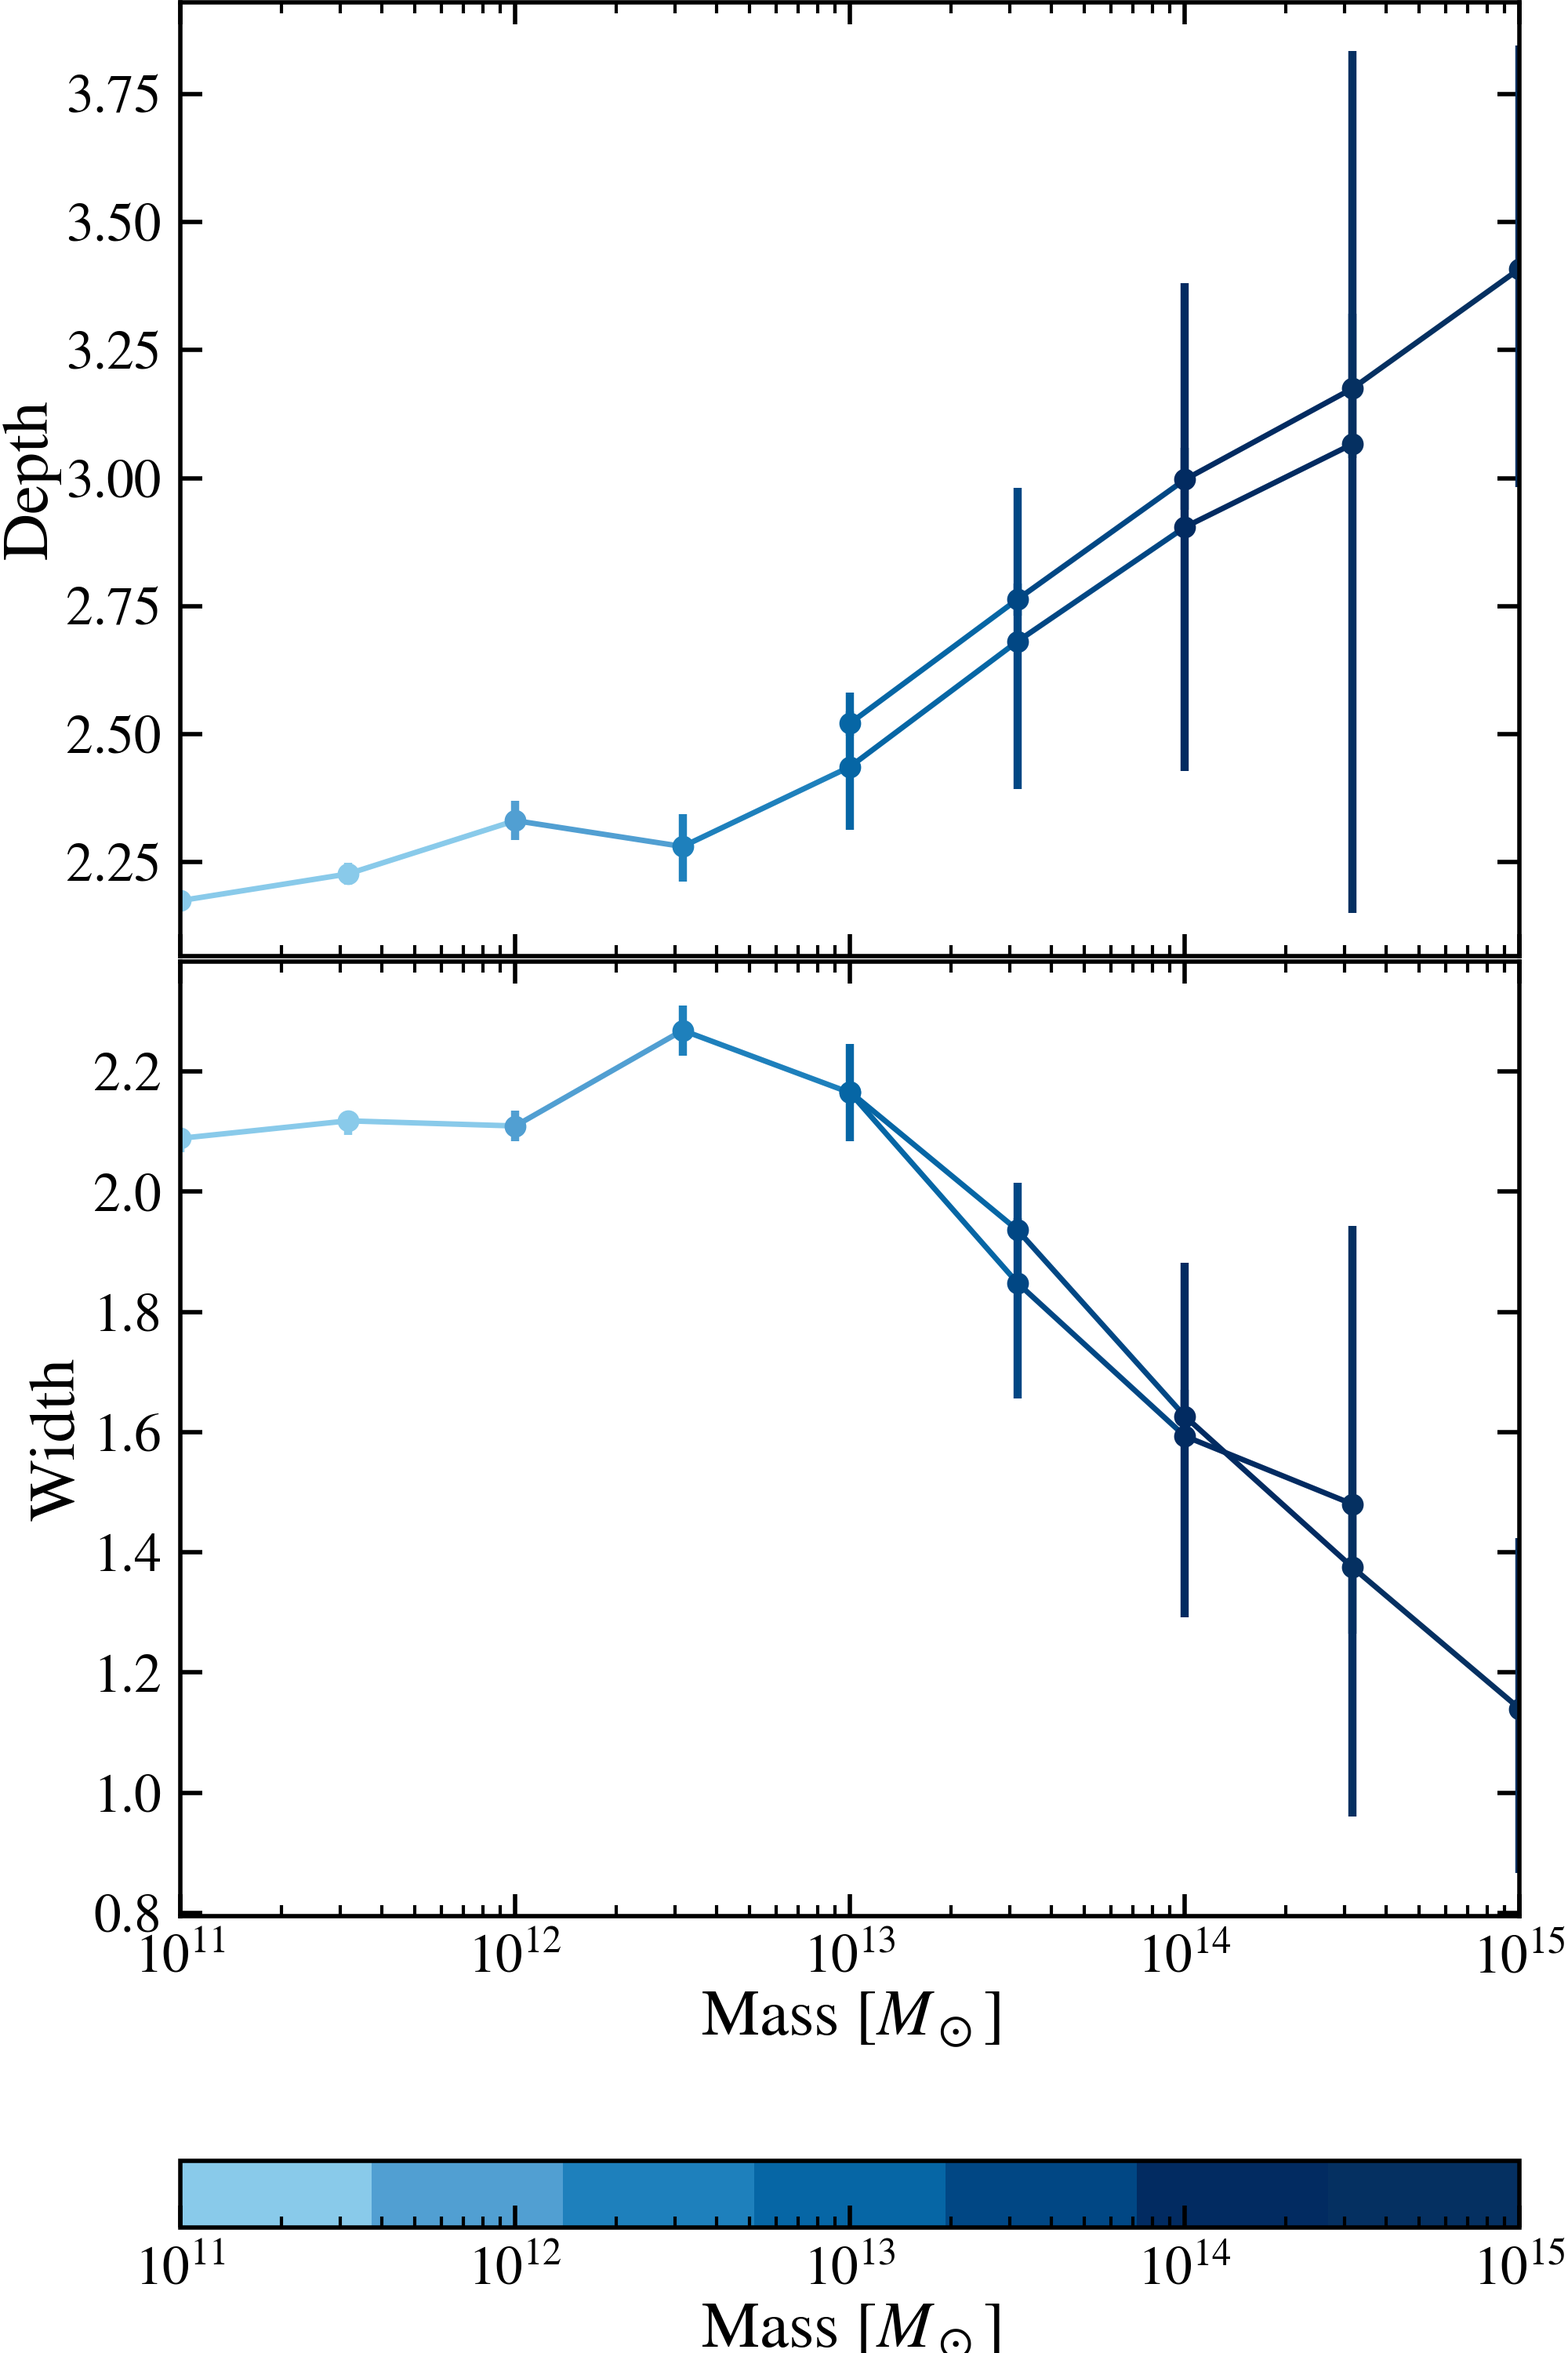
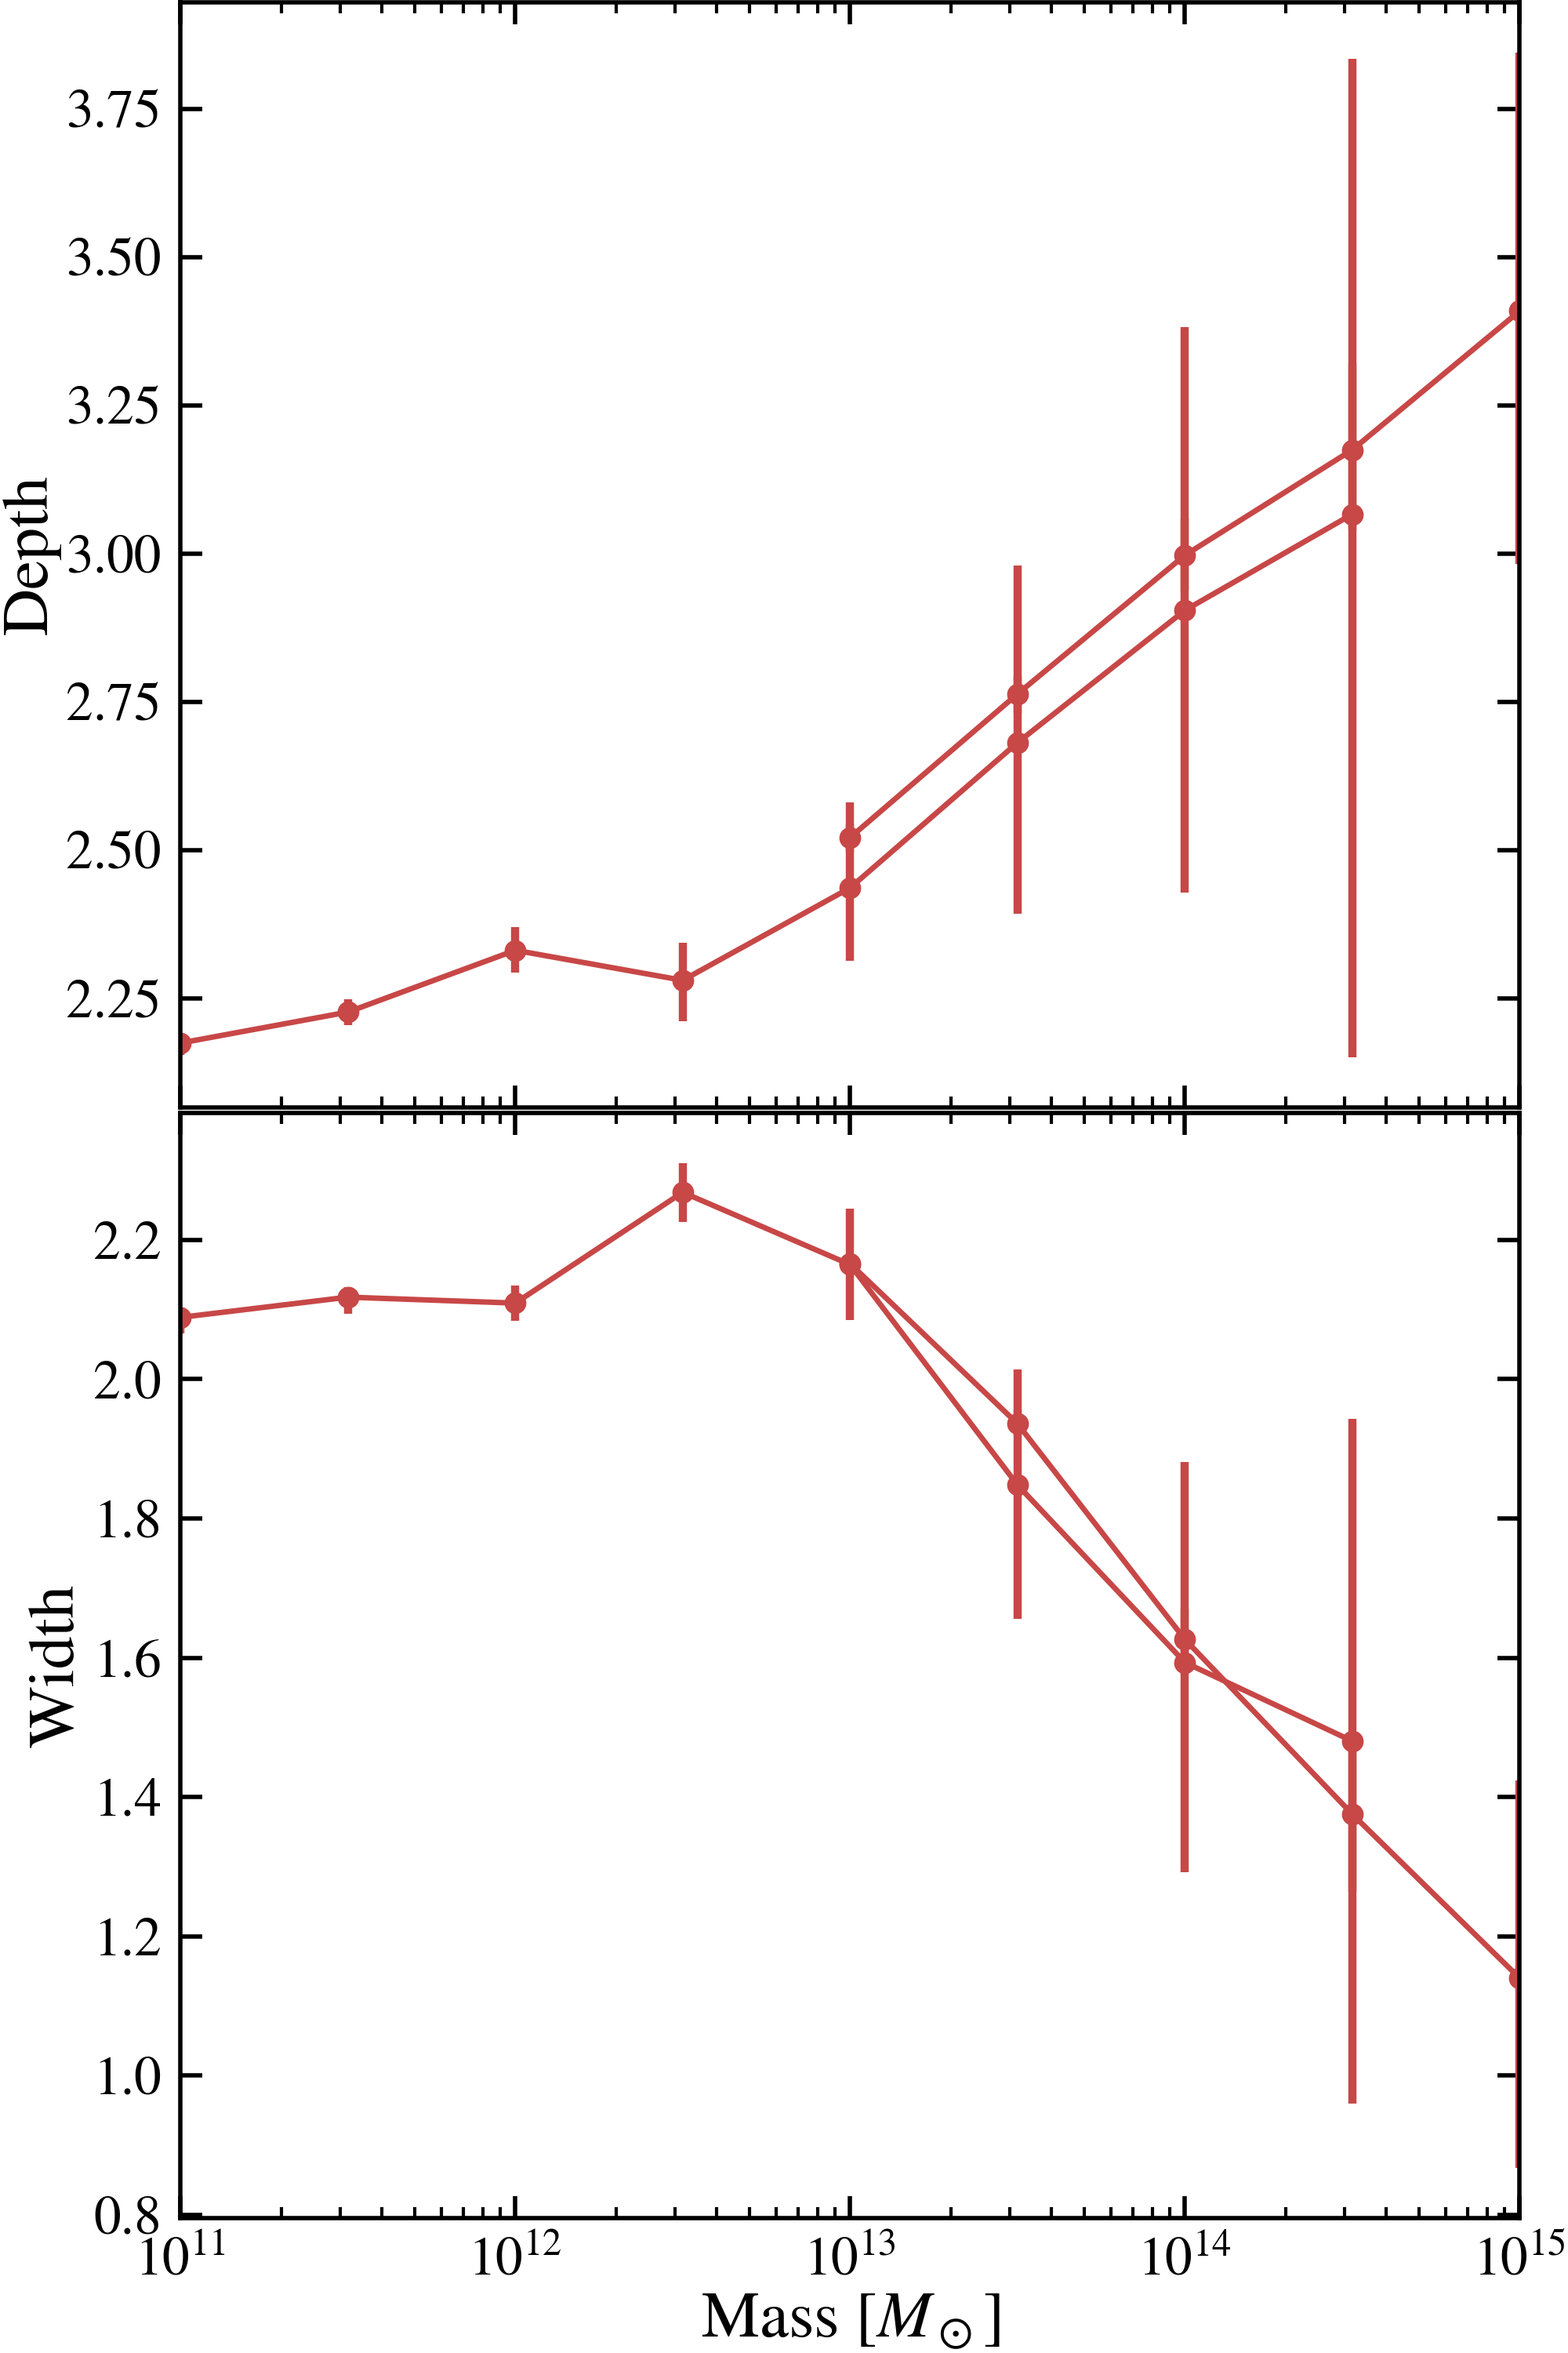
new

diff --git a/code/paper_plot/fig2.py b/code/paper_plot/fig2.py
@@ -1,5 +1,5 @@
 """"This script plots depth (top panel) and width (bottom panel) as a function of mass at z = 0.
-    Hydro simulation only."""
+    Hydro-simulations only."""
 
 import os
 import numpy as np
@@ -12,7 +12,37 @@ print('')
 print('>>> Plot Depth and width vs mass at z = 0 <<<')
 print('')
 
+# ============================================================================================
+# Load data
+# ============================================================================================
+
 root_dir = 'result/bootstrap_stats_phys/'
+
+# Load TNG300
+TNG300_dir = f'{root_dir}/TNG300/sim_205_1250_Hydro/Nboots_1024/'
+TNG300_snaps = 99
+TNG300_data = np.load(f'{TNG300_dir}/snap_{TNG300_snaps}_Rsp_stats.npy', allow_pickle=True).item()
+
+TNG300_z             = np.round(TNG300_data['z'], 3)
+TNG300_mass_bins     = TNG300_data['mass_bins']
+TNG300_final_results = TNG300_data['final_results']
+
+# Load MTNG
+MTNG_dir = f'{root_dir}/MTNG/Hydro-Arepo/MTNG-L500-4320-A/Nboots_1024/'
+MTNG_snaps = 264
+MTNG_data = np.load(f'{MTNG_dir}//snap_{MTNG_snaps}_Rsp_stats.npy', allow_pickle=True).item()
+
+MTNG_z             = np.round(MTNG_data['z'], 3)
+MTNG_mass_bins     = MTNG_data['mass_bins']
+MTNG_final_results = MTNG_data['final_results']
+
+print(TNG300_z, MTNG_z)
+
+min_mass = min(min(TNG300_mass_bins), min(MTNG_mass_bins))
+max_mass = max(max(TNG300_mass_bins), max(MTNG_mass_bins))
+print(min_mass, max_mass)
+num_mass_bins = int((max_mass - min_mass) / 0.5)
+print(num_mass_bins)
 
 # ============================================================================================
 # Set up the plot
@@ -21,95 +51,73 @@ root_dir = 'result/bootstrap_stats_phys/'
 fig, axs = plt.subplots(2, 1, figsize=(4, 6), dpi=500, sharex=True)
 
 # ============================================================================================
-# Set up the colorbar
+# Plot Depth
 # ============================================================================================
 
-def load_z(dir, snaps):
-    data = np.load(dir+f'/snap_{min(snaps)}_Rsp_stats.npy', allow_pickle=True).item()
-    z_i = np.round(data['z'], 2)
-    data = np.load(dir+f'/snap_{max(snaps)}_Rsp_stats.npy', allow_pickle=True).item()
-    z_f = np.round(data['z'], 2)
-    return z_i, z_f
-
-TNG300_snaps = [99, 78, 67, 50, 40, 33, 25, 21, 17, 13, 8]
-TNG300_dir = f'{root_dir}/TNG300/sim_205_1250_Hydro/Nboots_1024/'
-TNG300_z_i, TNG300_z_f = load_z(TNG300_dir, TNG300_snaps)
-
-MTNG_snaps = [264, 237, 214, 179, 151, 129]
-MTNG_dir = f'{root_dir}/MTNG/Hydro-Arepo/MTNG-L500-4320-A/Nboots_1024/'
-MTNG_z_i, MTNG_z_f = load_z(MTNG_dir, MTNG_snaps)
-
-z_i, z_f = max(TNG300_z_i, MTNG_z_i), min(TNG300_z_f, MTNG_z_f)
-print(z_i, z_f)
-
-# Set up the colorbar
-cmap = plt.get_cmap('viridis', len(TNG300_snaps))
-bound = np.linspace(z_f, z_i, len(TNG300_snaps))
-norm = BoundaryNorm(bound, cmap.N)
-cb = fig.colorbar(cm.ScalarMappable(norm=norm, cmap=cmap),
-                  ax=axs, orientation='horizontal', spacing='proportional', ticks=bound)
-cb.set_label('z')
-
-# ============================================================================================
-# Plot
-# ============================================================================================
-
-def load_stats(dir, snap):
-        data = np.load(f'{dir}/snap_{snap}_Rsp_stats.npy', allow_pickle=True).item()
-
-        z = np.round(data['z'], 3)
-        mass_bins     = [10**(10+mass) for mass in data['mass_bins']]
-        final_results = data['final_results']
+# Plot TNG300
+for imass, mass in enumerate(TNG300_mass_bins):
         
-        return z, mass_bins, final_results
+        axs[0].plot(10**(10+mass), TNG300_final_results[imass, 1, 1], color='#C84747')
+        if imass < len(TNG300_mass_bins)-1:
+                axs[0].plot([10**(10+TNG300_mass_bins[imass]), 10**(10+TNG300_mass_bins[imass+1])], 
+                            [TNG300_final_results[imass, 1, 1], TNG300_final_results[imass+1, 1, 1]], 
+                             color='#C84747', lw=1) 
+        axs[0].errorbar(10**(10+mass), TNG300_final_results[imass, 1, 1],
+                        yerr=[[TNG300_final_results[imass, 1, 1]-TNG300_final_results[imass, 1, 0]], 
+                                [TNG300_final_results[imass, 1, 2]-TNG300_final_results[imass, 1, 1]]],
+                        color='#C84747', fmt='.')
 
-def plot_depth(z, mass_bins, final_results, simu):
-        if simu == 'DM':
-                ls = '--'
-        else:
-                ls = '-'
-                       
-        axs[0].plot(mass_bins, final_results[:, 1, 1], color=cmap(norm(z)), lw=1, alpha=0.5, linestyle=ls) 
-        axs[0].errorbar(mass_bins, final_results[:, 1, 1],
-                        yerr=[final_results[:, 1, 1]-final_results[:, 1, 0], 
-                              final_results[:, 1, 2]-final_results[:, 1, 1]],
-                        color=cmap(norm(z)), fmt='.')
+# Plot MTNG
+for imass, mass in enumerate(MTNG_mass_bins):
         
-def plot_width(z, mass_bins, final_results, simu):
-        if simu == 'DM':
-                ls = '--'
-        else:
-                ls = '-'
-                       
-        axs[1].plot(mass_bins, final_results[:, 2, 1], color=cmap(norm(z)), lw=1, alpha=0.5, linestyle=ls) 
-        axs[1].errorbar(mass_bins, final_results[:, 2, 1],
-                        yerr=[final_results[:, 2, 1]-final_results[:, 2, 0], 
-                              final_results[:, 2, 2]-final_results[:, 2, 1]],
-                        color=cmap(norm(z)), fmt='.')
-
-simus = ['Hydro']
-for simu in simus:
-        
-        # Plot TNG300
-        for snap in [99]:
-                TNG300_dir = f'{root_dir}/TNG300/sim_205_1250_{simu}/Nboots_1024/'
-                TNG300_z, TNG300_mass_bins, TNG300_final_results = load_stats(TNG300_dir, snap)
-                plot_depth(TNG300_z, TNG300_mass_bins, TNG300_final_results, simu)
-                plot_width(TNG300_z, TNG300_mass_bins, TNG300_final_results, simu)
-                
-        # Plot MTNG
-        for snap in [264]:
-                MTNG_dir = f'{root_dir}/MTNG/{simu}-Arepo/MTNG-L500-4320-A/Nboots_1024/'
-                MTNG_z, MTNG_mass_bins, MTNG_final_results = load_stats(MTNG_dir, snap)
-                plot_depth(MTNG_z, MTNG_mass_bins, MTNG_final_results, simu)
-                plot_width(MTNG_z, MTNG_mass_bins, MTNG_final_results, simu)
+        axs[0].plot(10**(10+mass), MTNG_final_results[imass, 1, 1], color='#C84747')
+        if imass < len(MTNG_mass_bins)-1:
+                axs[0].plot([10**(10+MTNG_mass_bins[imass]), 10**(10+MTNG_mass_bins[imass+1])], 
+                            [MTNG_final_results[imass, 1, 1], MTNG_final_results[imass+1, 1, 1]],
+                             color='#C84747', lw=1)
+        axs[0].errorbar(10**(10+mass), MTNG_final_results[imass, 1, 1],
+                        yerr=[[MTNG_final_results[imass, 1, 1]-MTNG_final_results[imass, 1, 0]],
+                                [MTNG_final_results[imass, 1, 2]-MTNG_final_results[imass, 1, 1]]],
+                        color='#C84747', fmt='.')
 
 axs[0].set_xscale('log')
 axs[0].set_ylabel("Depth")
+axs[0].set_xlim(10**(10+min_mass), 10**(10+max_mass))
+
+# ============================================================================================
+# Plot Width
+# ============================================================================================
+
+# Plot TNG300
+for imass, mass in enumerate(TNG300_mass_bins):
+                
+        axs[1].plot(10**(10+mass), TNG300_final_results[imass, 2, 1], color='#C84747')
+        if imass < len(TNG300_mass_bins)-1:
+                axs[1].plot([10**(10+TNG300_mass_bins[imass]), 10**(10+TNG300_mass_bins[imass+1])], 
+                            [TNG300_final_results[imass, 2, 1], TNG300_final_results[imass+1, 2, 1]],
+                        color='#C84747', lw=1)
+        axs[1].errorbar(10**(10+mass), TNG300_final_results[imass, 2, 1],
+                        yerr=[[TNG300_final_results[imass, 2, 1]-TNG300_final_results[imass, 2, 0]],
+                                [TNG300_final_results[imass, 2, 2]-TNG300_final_results[imass, 2, 1]]],
+                        color='#C84747', fmt='.')
+        
+# Plot MTNG
+for imass, mass in enumerate(MTNG_mass_bins):
+                        
+        axs[1].plot(10**(10+mass), MTNG_final_results[imass, 2, 1], color='#C84747')
+        if imass < len(MTNG_mass_bins)-1:
+                axs[1].plot([10**(10+MTNG_mass_bins[imass]), 10**(10+MTNG_mass_bins[imass+1])], 
+                            [MTNG_final_results[imass, 2, 1], MTNG_final_results[imass+1, 2, 1]],
+                        color='#C84747', lw=1)
+        axs[1].errorbar(10**(10+mass), MTNG_final_results[imass, 2, 1],
+                        yerr=[[MTNG_final_results[imass, 2, 1]-MTNG_final_results[imass, 2, 0]],
+                                [MTNG_final_results[imass, 2, 2]-MTNG_final_results[imass, 2, 1]]],
+                        color='#C84747', fmt='.')
 
 axs[1].set_xscale('log')
 axs[1].set_xlabel('Mass [$M_\\odot$]')
 axs[1].set_ylabel("Width")
+axs[1].set_xlim(10**(10+min_mass), 10**(10+max_mass))
 
 # ============================================================================================
 # Save the plot
@@ -119,5 +127,5 @@ save_dir = f'result/paper_plots/'
 if not os.path.exists(save_dir):
     os.makedirs(save_dir)
 
-plt.savefig(f'{save_dir}/fig2')
+plt.savefig(f'{save_dir}/fig2.png')
 plt.close()
